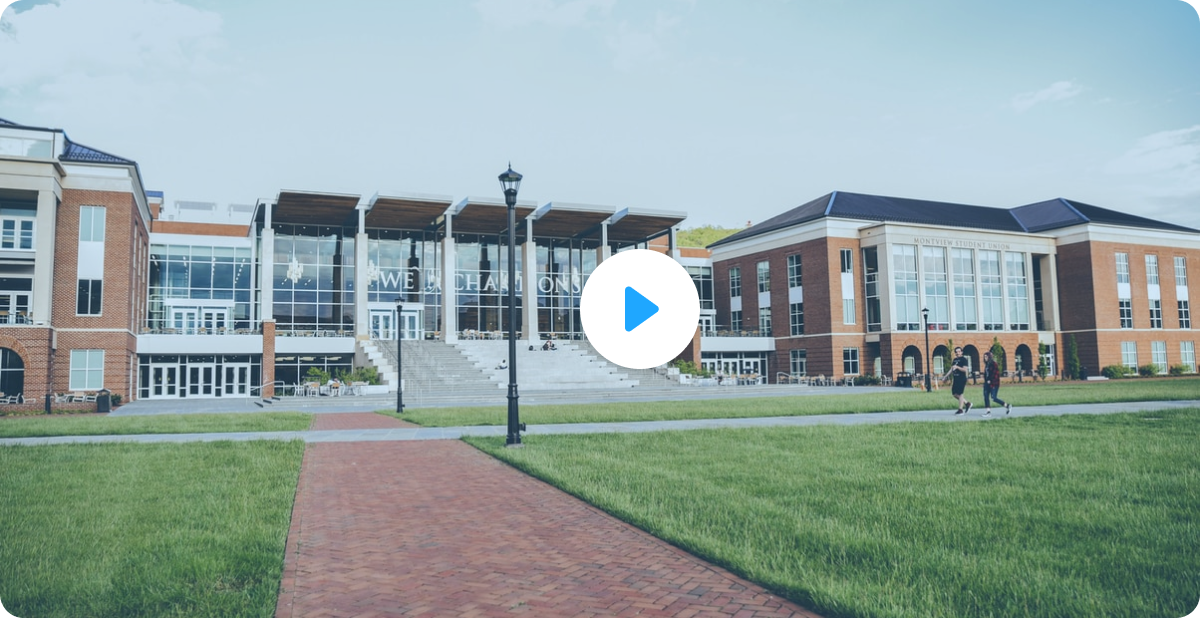
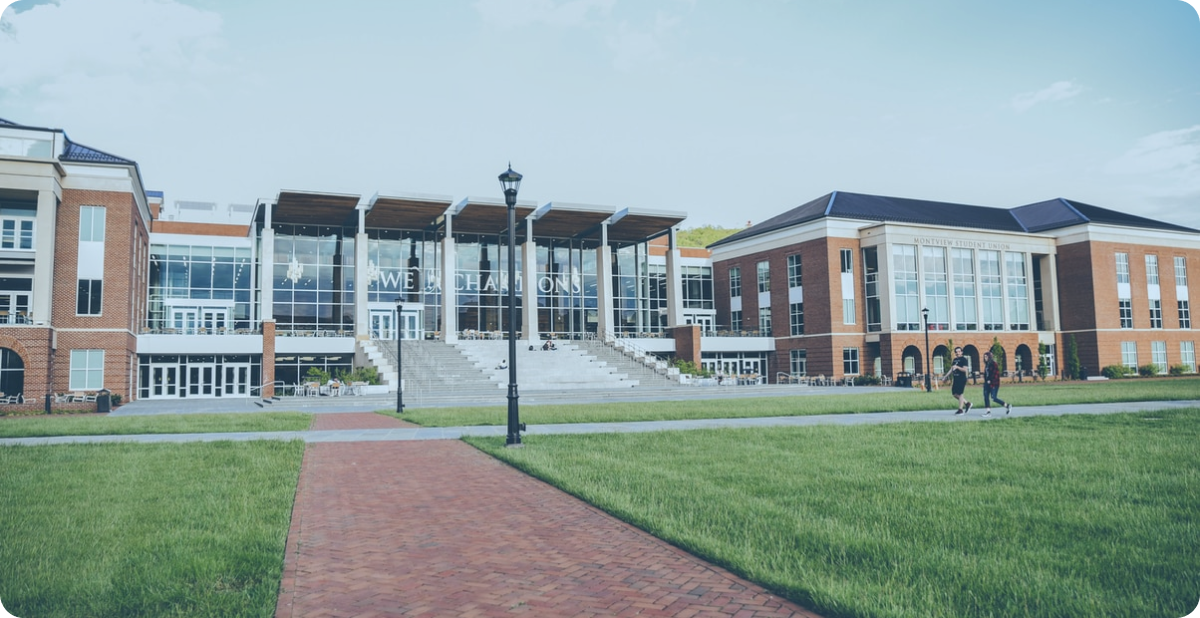
update video

Changed region(s): [[0.4625, 0.3997, 0.5858, 0.6149]]

diff --git a/page/about.html b/page/about.html
@@ -151,9 +151,9 @@
                         <button type="button" class="btn btn-close" data-bs-dismiss="modal" aria-label="Close"></button>
                     </div>
                     <div class="modal-body">
-                    <!-- Video dari YouTube (dengan iframe) -->
+                    <!-- Video YouTube menggunakan iframe) -->
                         <div class="ratio ratio-16x9">
-                            <iframe class="embed-responsive-item" src="https://www.youtube.com/embed/tpflPFyCIkY?si=txpjtdFlU3CIu8mr" allow="accelerometer; autoplay; clipboard-write; encrypted-media; gyroscope; picture-in-picture; web-share" allowfullscreen></iframe>
+                            <iframe class="embed-responsive-item" src="https://www.youtube.com/embed/9HENYIWKb3A?enablejsapi=1" allow="accelerometer; autoplay; clipboard-write; encrypted-media; gyroscope; picture-in-picture; web-share" allowfullscreen></iframe>
                         </div>
                     </div>
                 </div>
@@ -340,6 +340,16 @@
     });
     </script>
     <!-- Navbar End -->
+
+    <!-- Youtube Video Start -->
+    <script>
+    const videoIframe = document.querySelector('#videoModal iframe');
+    const closeButton = document.querySelector('#videoModal .btn-close');
+    closeButton.addEventListener("click", function () {
+        videoIframe.contentWindow.postMessage('{"event":"command","func":"pauseVideo","args":""}', '*');
+    });
+    </script>
+    <!-- Youtube Video Start -->
 
 </body>
 </html>
